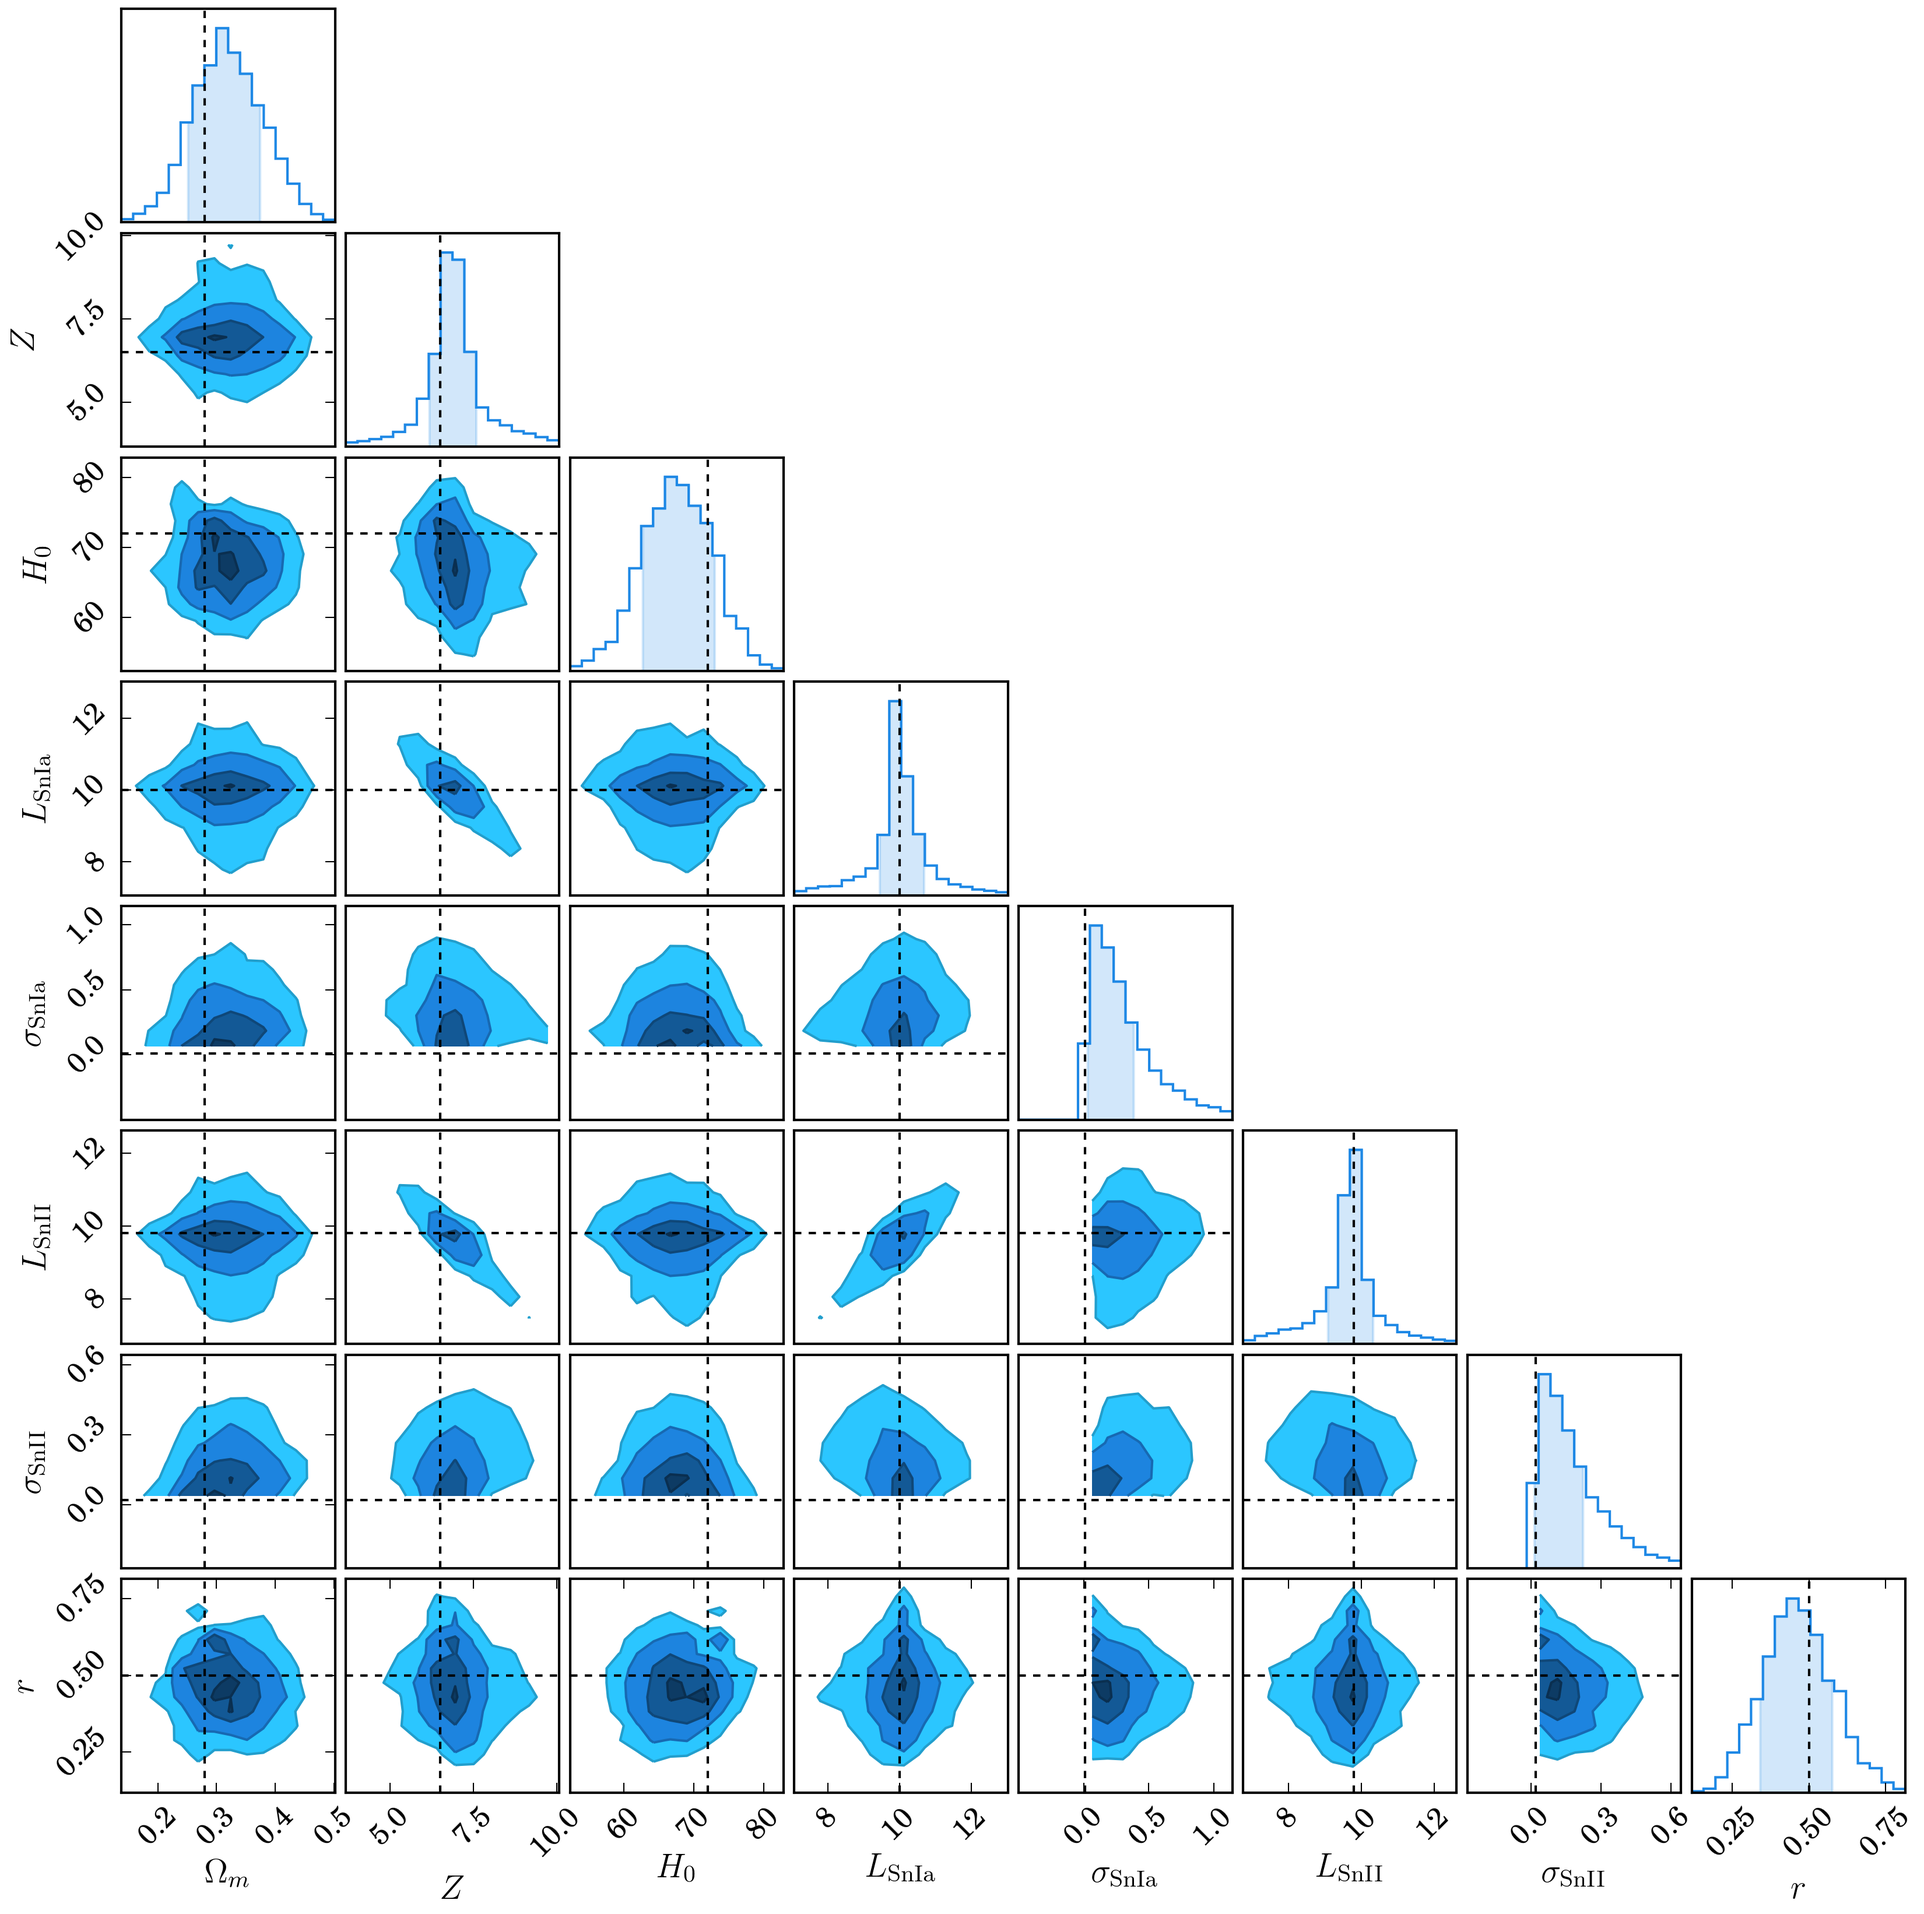
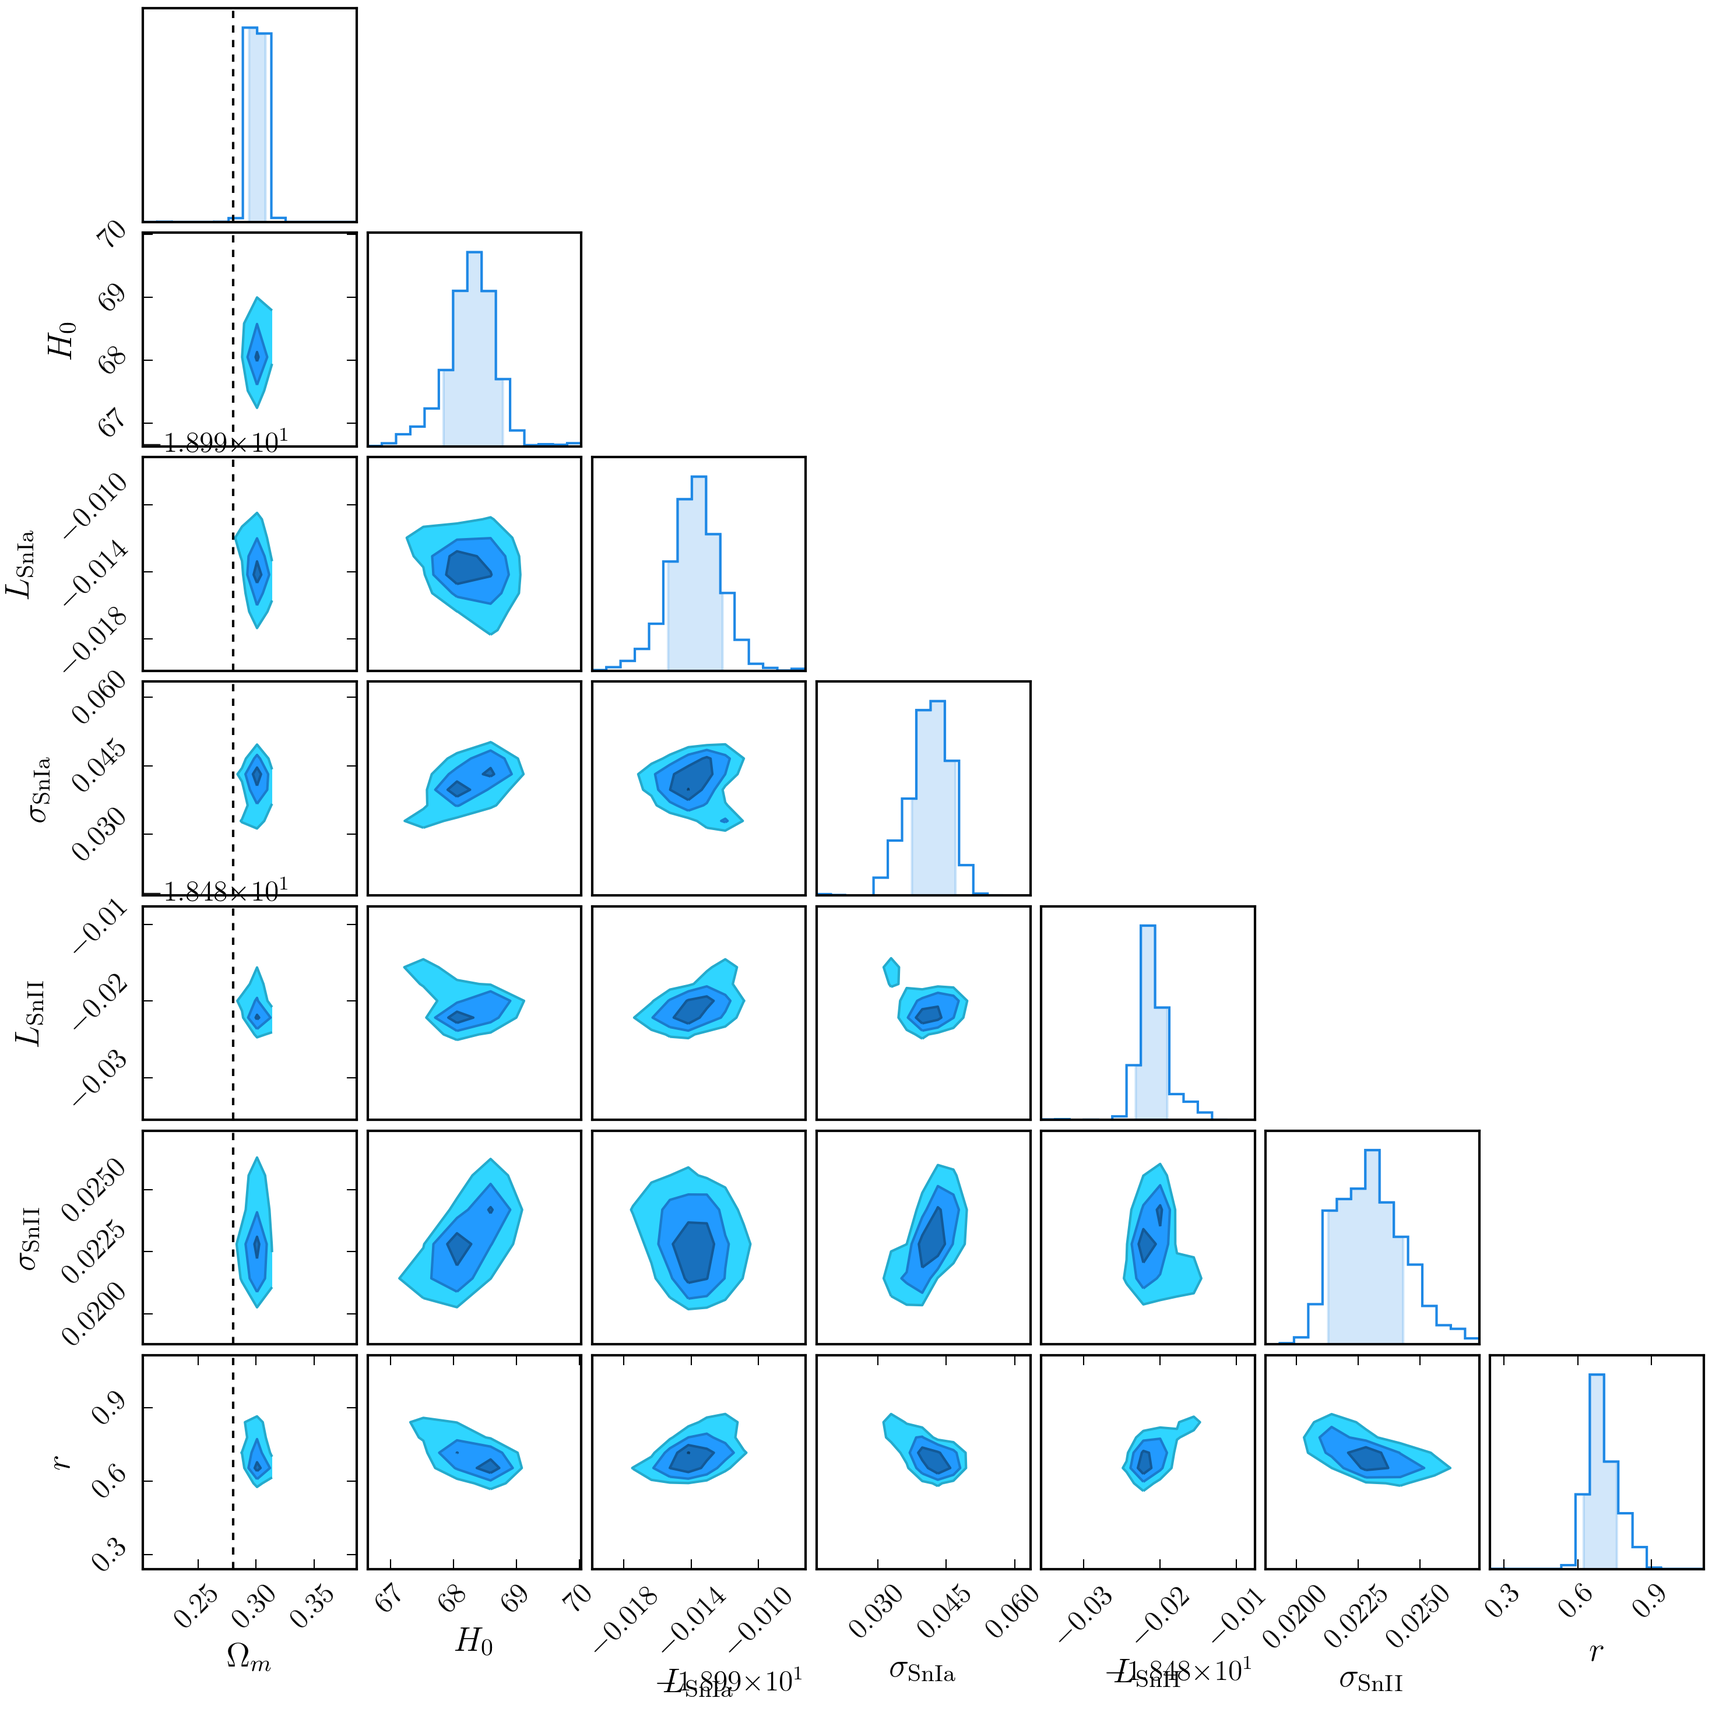
It now runs, but doesnt recover correct models

Changed region(s): [[0.031, 0.0, 1.0, 0.9915]]

diff --git a/dessn/toy/edges.py b/dessn/toy/edges.py
@@ -6,7 +6,7 @@ import sncosmo
 
 class ToLightCurve(Edge):
     def __init__(self):
-        super(ToLightCurve, self).__init__("olc", ["redshift", "x0", "x1", "t0", "c", "omega_m", "H0"])
+        super(ToLightCurve, self).__init__("olc", ["redshift", "luminosity", "x1", "t0", "c", "omega_m", "H0"])
         self.model = sncosmo.Model(source="salt2")
 
     def get_log_likelihood(self, data):
@@ -15,11 +15,15 @@ class ToLightCurve(Edge):
         H0 = data["H0"]
         om = data["omega_m"]
         cosmology = FlatwCDM(H0, om)
-        self.model.parameters = [data["redshift"], data["t0"], data["x0"], data["x1"], data["c"]]
-        self.model.set_source_peakabsmag(data["x0"], 'bessellb', 'ab', cosmo=cosmology)
+        # print("LLL ", data["luminosity"], data["redshift"])
+        self.model.set(z=data["redshift"])
+        self.model.set_source_peakabsmag(data["luminosity"], 'bessellb', 'ab', cosmo=cosmology)
+        x0 = self.model.get("x0")
+        self.model.parameters = [data["redshift"], data["t0"], x0, data["x1"], data["c"]]
+
         chi2 = sncosmo.chisq(data["olc"], self.model)
-        print(chi2, [data["redshift"], data["t0"], data["x0"], data["x1"], data["c"]])
-        print(self.model.bandflux(data["olc"]['band'], data["olc"]['time'], zp=data["olc"]['zp'], zpsys=data["olc"]['zpsys']))
+        # print(chi2, [data["redshift"], data["t0"], x0, data["x1"], data["c"]])
+        # print("FLUX", self.model.bandflux(data["olc"]['band'], data["olc"]['time'], zp=data["olc"]['zp'], zpsys=data["olc"]['zpsys']))
         if (not np.isfinite(chi2)):
             print(self.model.param_names)
             raise Exception("sigh")
@@ -67,7 +71,7 @@ class ToRedshift(EdgeTransformation):
 
 class ToLuminosity(Edge):
     def __init__(self):
-        super(ToLuminosity, self).__init__("x0", ["type", "snIa_luminosity", "snIa_sigma", "snII_luminosity", "snII_sigma"])
+        super(ToLuminosity, self).__init__("luminosity", ["type", "snIa_luminosity", "snIa_sigma", "snII_luminosity", "snII_sigma"])
         self.sqrt2pi = np.sqrt(2 * np.pi)
 
     def get_log_likelihood(self, data):
@@ -89,7 +93,7 @@ class ToLuminosity(Edge):
 
         # TODO: Where should we consistency check parameters? Should we need to?
         sn_type = data["type"]
-        luminosity = data["x0"]
+        luminosity = data["luminosity"]
         if sn_type == "Ia":
             snIa_mean = data["snIa_luminosity"]
             snIa_std = data["snIa_sigma"]

diff --git a/dessn/toy/toyModel.py b/dessn/toy/toyModel.py
@@ -82,12 +82,11 @@ if __name__ == "__main__":
         pgm_file = os.path.abspath(dir_name + "/../../plots/toyModelPGM.png")
         fig = toy_model.get_pgm(pgm_file)'''
 
+    toy_model.fit_model(num_steps=5000, num_burn=500, temp_dir=temp_dir, save_interval=60)
 
-    toy_model.fit_model(num_steps=5000, num_burn=2000, temp_dir=temp_dir, save_interval=60)
-    '''
     if not only_data:
         chain_consumer = toy_model.get_consumer()
         chain_consumer.configure_general(max_ticks=4, bins=0.7)
-        chain_consumer.plot_walks(display=False, filename=walk_file, figsize=(20, 10), truth=theta[:8])
-        chain_consumer.plot(display=False, filename=plot_file, figsize="grow", truth=theta[:8])'''
+        chain_consumer.plot_walks(display=False, filename=walk_file, figsize=(20, 10), truth=theta)
+        chain_consumer.plot(display=False, filename=plot_file, figsize="grow", truth=theta)
 

diff --git a/dessn/toy/latent.py b/dessn/toy/latent.py
@@ -13,7 +13,7 @@ class Redshift(ParameterTransformation):
 
 class Luminosity(ParameterLatent):
     def __init__(self, n):
-        super(Luminosity, self).__init__("x0", "$x_0$", group="Supernova Properties")
+        super(Luminosity, self).__init__("luminosity", "$L$", group="Supernova Properties")
         self.n = n
 
     def get_num_latent(self):
@@ -24,7 +24,7 @@ class Luminosity(ParameterLatent):
 
     def get_suggestion(self, data):
         typeIa = data["otype"] == "Ia"
-        return typeIa * -19.3 + (1 - typeIa) * -18
+        return typeIa * -19.3 + (1 - typeIa) * -18.5
 
     def get_suggestion_sigma(self, data):
         return 0.2

diff --git a/dessn/chain/chain.py b/dessn/chain/chain.py
@@ -767,9 +767,9 @@ class ChainConsumer(object):
             if scalefactor < 0 or len(hex) != 6:
                 return hex
             r, g, b = int(hex[:2], 16), int(hex[2:4], 16), int(hex[4:], 16)
-        r = self._clamp(r * scalefactor)
-        g = self._clamp(g * scalefactor)
-        b = self._clamp(b * scalefactor)
+        r = self._clamp(int(r * scalefactor))
+        g = self._clamp(int(g * scalefactor))
+        b = self._clamp(int(b * scalefactor))
         return "#%02x%02x%02x" % (r, g, b)
 
     def _convert_to_stdev(self, sigma):

diff --git a/dessn/model/model.py b/dessn/model/model.py
@@ -190,7 +190,7 @@ class Model(object):
             array = arrs[m]
             for a, d in zip(array, data):
                 d[m] = a
-        print("RESULT: ", result)
+        # print("RESULT: ", result)
         return result, data
 
     def get_log_prior(self, theta):

diff --git a/dessn/simulation/simulation.py b/dessn/simulation/simulation.py
@@ -77,6 +77,8 @@ class Simulation(object):
              }
 
         lcs = sncosmo.realize_lcs(obs, model, [p])
+        #model.set(**p)
+        #print(p, sncosmo.chisq(lcs[0], model))
         return lcs[0]
 
 
